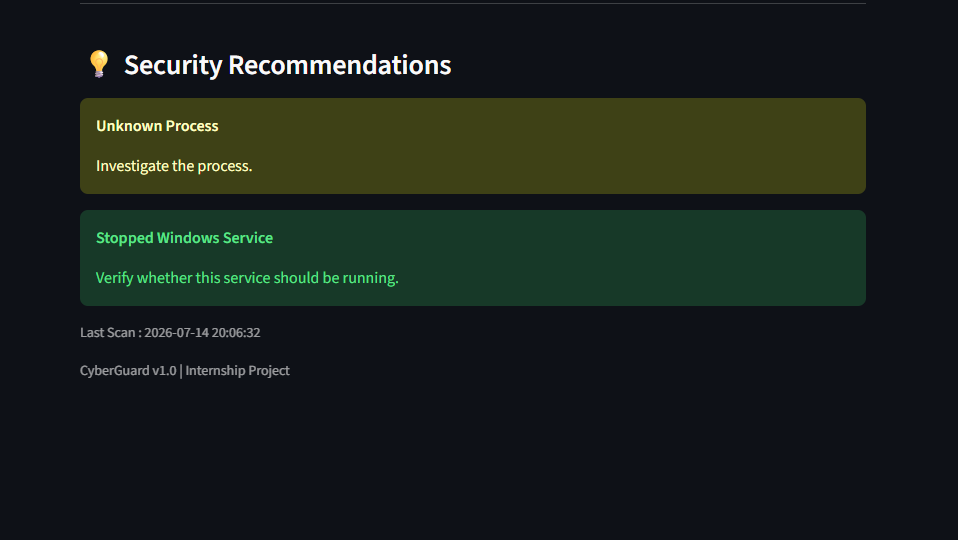
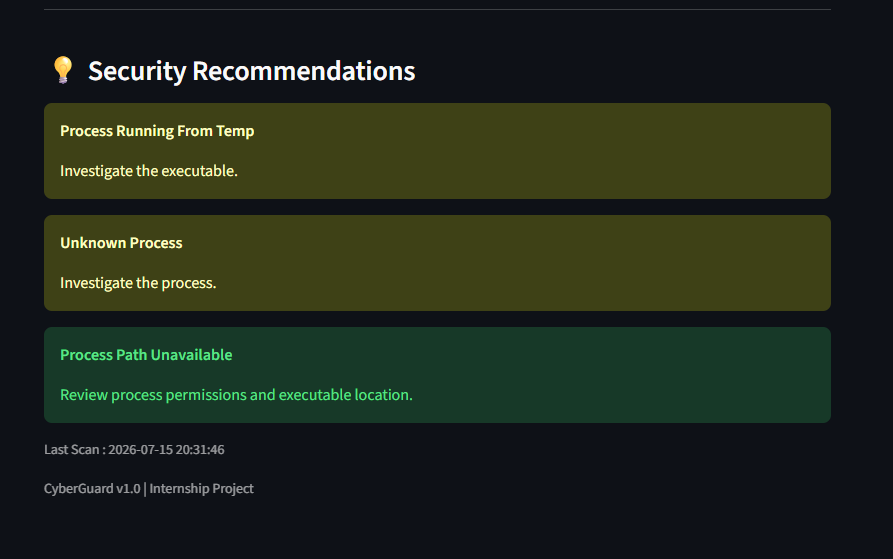
feat: enhance process anomaly detection with path analysis

diff --git a/analyzers/risk_engine.py b/analyzers/risk_engine.py
@@ -1,15 +1,65 @@
 from core.finding_factory import FindingFactory
 
 
+TRUSTED_KEYWORDS = {
+
+    "microsoft",
+    "windows",
+    "google",
+    "chrome",
+    "edge",
+    "mozilla",
+    "firefox",
+    "intel",
+    "realtek",
+    "amd",
+    "nvidia",
+    "docker",
+    "python",
+    "git",
+    "github",
+    "visual studio",
+    "code.exe",
+    "vscode",
+    "onedrive",
+    "teams",
+    "discord",
+    "spotify",
+    "steam",
+    "java",
+    "oracle"
+
+}
+
+
+SYSTEM_PROCESSES = {
+
+    "System",
+    "System Idle Process",
+    "Registry"
+
+}
+
+
 def calculate_risk(system_info, security_info, processes, file_results):
 
     findings = []
 
     # --------------------------------------------------
-    # Unknown Process Detection
+    # Process Analysis
     # --------------------------------------------------
 
     for process in processes:
+
+        executable = process["path"].lower()
+
+        trusted = any(
+
+            keyword in executable
+
+            for keyword in TRUSTED_KEYWORDS
+
+        )
 
         if process["name"] == "Unknown":
 
@@ -37,8 +87,156 @@ def calculate_risk(system_info, security_info, processes, file_results):
 
             )
 
+            continue
+
+        if process["is_temp"] and not trusted:
+
+            findings.append(
+
+                FindingFactory.create(
+
+                    title="Process Running From Temp",
+
+                    category="Process Analysis",
+
+                    severity="HIGH",
+
+                    raw_score=20,
+
+                    description=(
+                        f"{process['name']} is executing from {process['path']}"
+                    ),
+
+                    recommendation="Investigate the executable.",
+
+                    module="Process Analyzer"
+
+                )
+
+            )
+
+            continue
+
+        if process["is_appdata"] and not trusted:
+
+            findings.append(
+
+                FindingFactory.create(
+
+                    title="Process Running From AppData",
+
+                    category="Process Analysis",
+
+                    severity="MEDIUM",
+
+                    raw_score=15,
+
+                    description=(
+                        f"{process['name']} is executing from an untrusted AppData location."
+                    ),
+
+                    recommendation="Verify whether this application is trusted.",
+
+                    module="Process Analyzer"
+
+                )
+
+            )
+
+            continue
+
+        if (
+
+            process["missing_path"]
+
+            and process["name"] not in SYSTEM_PROCESSES
+
+        ):
+
+            findings.append(
+
+                FindingFactory.create(
+
+                    title="Process Path Unavailable",
+
+                    category="Process Analysis",
+
+                    severity="LOW",
+
+                    raw_score=5,
+
+                    description=(
+                        f"Executable path for {process['name']} could not be determined."
+                    ),
+
+                    recommendation=(
+                        "Review process permissions and executable location."
+                    ),
+
+                    module="Process Analyzer"
+
+                )
+
+            )
+
+            continue
+
+        if process["cpu"] > 80:
+
+            findings.append(
+
+                FindingFactory.create(
+
+                    title="High CPU Usage",
+
+                    category="Process Analysis",
+
+                    severity="MEDIUM",
+
+                    raw_score=10,
+
+                    description=(
+                        f"{process['name']} is consuming {process['cpu']}% CPU."
+                    ),
+
+                    recommendation="Investigate unusually high processor usage.",
+
+                    module="Process Analyzer"
+
+                )
+
+            )
+
+            continue
+
+        if process["memory"] > 30:
+
+            findings.append(
+
+                FindingFactory.create(
+
+                    title="High Memory Usage",
+
+                    category="Process Analysis",
+
+                    severity="LOW",
+
+                    raw_score=10,
+
+                    description=(
+                        f"{process['name']} is consuming {process['memory']}% memory."
+                    ),
+
+                    recommendation="Review memory consumption for abnormal behavior.",
+
+                    module="Process Analyzer"
+
+                )
+
+            )
+
     # --------------------------------------------------
-    # File Integrity Detection
+    # File Integrity
     # --------------------------------------------------
 
     for file in file_results:
@@ -70,12 +268,15 @@ def calculate_risk(system_info, security_info, processes, file_results):
             )
 
     # --------------------------------------------------
-    # Firewall Detection
+    # Firewall
     # --------------------------------------------------
 
     firewall_profiles = security_info.get(
+
         "firewall_status",
+
         []
+
     )
 
     if isinstance(firewall_profiles, dict):
@@ -122,7 +323,13 @@ def calculate_risk(system_info, security_info, processes, file_results):
 
     )
 
-    normalized_score = min(raw_score, 100)
+    normalized_score = min(
+
+        raw_score,
+
+        100
+
+    )
 
     severity_order = {
 
@@ -143,10 +350,6 @@ def calculate_risk(system_info, security_info, processes, file_results):
         if severity_order[finding.severity] > severity_order[highest]:
 
             highest = finding.severity
-
-    # --------------------------------------------------
-    # Enterprise Risk Decision
-    # --------------------------------------------------
 
     if highest == "CRITICAL":
 

diff --git a/analyzers/process_analyzer.py b/analyzers/process_analyzer.py
@@ -1,4 +1,5 @@
 import psutil
+from pathlib import Path
 
 
 def collect_processes():
@@ -6,26 +7,50 @@ def collect_processes():
     processes = []
 
     for process in psutil.process_iter(
-
-        ["pid",
-         "name",
-         "username",
-         "cpu_percent",
-         "memory_percent"]
-
+        [
+            "pid",
+            "name",
+            "username",
+            "cpu_percent",
+            "memory_percent"
+        ]
     ):
 
         try:
 
             info = process.info
 
+            try:
+                executable = process.exe()
+            except Exception:
+                executable = ""
+
             processes.append({
+
                 "pid": info["pid"],
+
                 "name": info["name"] or "Unknown",
+
                 "user": info["username"],
+
                 "cpu": round(info["cpu_percent"], 2),
+
                 "memory": round(info["memory_percent"], 2),
-                "path": process.exe() if process.is_running() else "Unavailable"
+
+                "path": executable,
+
+                "is_temp": (
+                    "temp" in executable.lower()
+                    if executable else False
+                ),
+
+                "is_appdata": (
+                    "appdata" in executable.lower()
+                    if executable else False
+                ),
+
+                "missing_path": executable == ""
+
             })
 
         except (

diff --git a/README.md b/README.md
@@ -275,7 +275,7 @@ Each finding includes:
 
 Users can search and filter findings by severity and module.
 
-![Recent Findings](docs\screenshots\07_security_findings.png)
+![Recent Findings](docs/screenshots/07_security_findings.png)
 
 ---
 